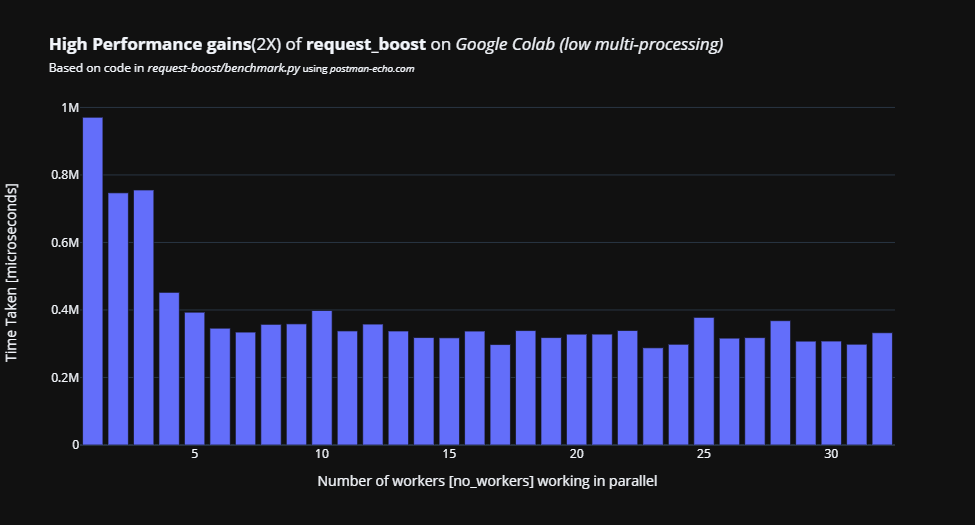
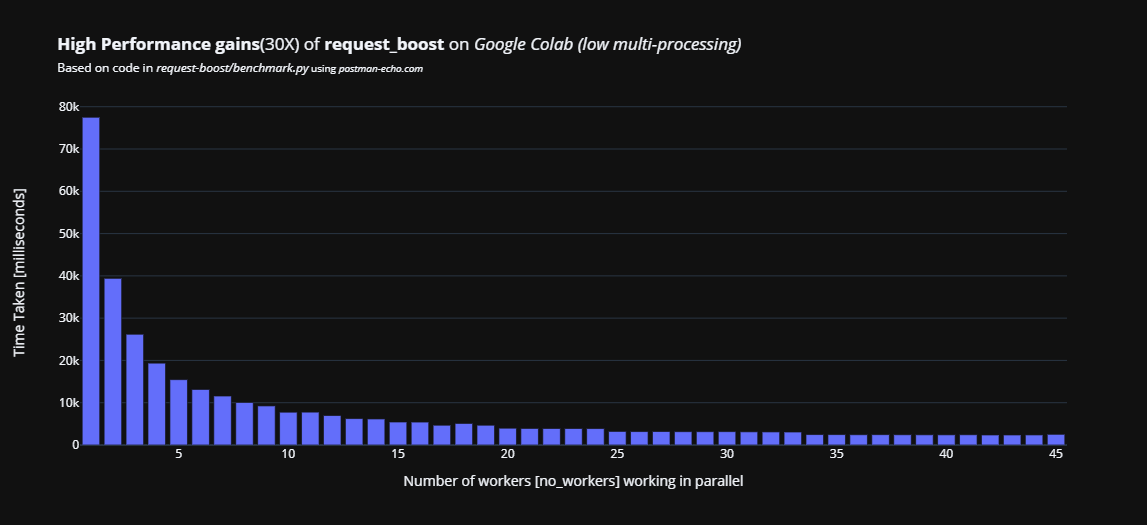
0.4

Changed region(s): [[0.0, 0.1829, 0.9538, 0.9448], [0.0308, 0.061, 0.7385, 0.1524]]

diff --git a/request_boost/__init__.py b/request_boost/__init__.py
@@ -10,9 +10,10 @@ import queue
 from urllib import request, parse
 from threading import Thread
 import json
+from datetime import datetime
 
 
-def boosted_requests(urls, no_workers=8, max_tries=3, timeout=10, headers=None, data=None, verbose=True):
+def boosted_requests(urls, no_workers=32, max_tries=5, timeout=10, headers=None, data=None, verbose=True):
     """
     Get data from APIs in parallel by creating workers that process in the background
     :param urls: list of URLS
@@ -24,9 +25,16 @@ def boosted_requests(urls, no_workers=8, max_tries=3, timeout=10, headers=None, 
     :param verbose: Show progress [True or False]
     :return: List of response for each API (order is maintained)
     """
+    start = datetime.now()
+
+    def _printer(inp, end=''):
+        print(f'\r::{(datetime.now() - start).total_seconds():.2f} seconds::',
+              str(inp),
+              end=end
+              )
 
     class GetRequestWorker(Thread):
-        def __init__(self, request_queue, max_tries=3, timeout=10, verbose=True):
+        def __init__(self, request_queue, max_tries=5, timeout=10, verbose=True):
             """
             Workers that can pull data in the background
             :param request_queue: queue of the dict containing the URLs
@@ -44,7 +52,7 @@ def boosted_requests(urls, no_workers=8, max_tries=3, timeout=10, headers=None, 
         def run(self):
             while True:
                 if self.verbose:
-                    print(f'\r>> {self.queue.qsize()} requests left', end='')
+                    _printer(f'>> {self.queue.qsize()} requests left', end='')
                 if self.queue.qsize() == 0:
                     break
                 else:
@@ -107,5 +115,5 @@ def boosted_requests(urls, no_workers=8, max_tries=3, timeout=10, headers=None, 
     for worker in workers:
         ret.update(worker.results)
     if verbose:
-        print(f'\r>> DONE')
+        _printer(f'>> DONE')
     return [ret[_] for _ in range(len(urls))]

diff --git a/request_boost/benchmark.py b/request_boost/benchmark.py
@@ -13,16 +13,16 @@ from tqdm.auto import tqdm
 import plotly.express as px
 
 # Sample data
-number_of_sample_urls = 200
+number_of_sample_urls = 100
 urls = [f'https://postman-echo.com/get?random_data={test_no}' for test_no in range(number_of_sample_urls)]
 headers = [{'sample_header': test_no} for test_no in range(number_of_sample_urls)]
 
 # Using boosted_requests
 wcd = {}
-for wc in tqdm(range(100, 0, -3)):
+for wc in tqdm(range(45, 0, -1)):
     start = dt.now()
-    results = boosted_requests(urls=urls, no_workers=wc, max_tries=10, timeout=5, headers=None)
-    wcd[wc] = (dt.now() - start).microseconds
+    results = boosted_requests(urls=urls, no_workers=wc, max_tries=5, timeout=5, headers=None)
+    wcd[wc] = int((dt.now() - start).total_seconds() * 1000)
 
 # Plotting using plotly
 lists = sorted(wcd.items())
@@ -30,8 +30,8 @@ x, y = zip(*lists)
 fig = px.bar(
     x=x,
     y=y,
-    title=f'<b>High Performance gains</b>(16X) of ' +
-          '<b>request_boost</b> on <i>Google Colab (low multi-processing)</i> <br>' +
+    title=f'<b>High Performance gains</b>(30X) of ' +
+          '<b>request_boost</b> even on <i>Google Colab (low multi-processing)</i> <br>' +
           '<span style="font-size: 12px;">Based on code in ' +
           '<i>request-boost/benchmark.py</i></span>' +
           '<span style="font-size: 10px;"> using <i>postman-echo.com</i> </span>',
@@ -41,5 +41,5 @@ fig.update_xaxes(
     title_text="Number of workers [no_workers] working in parallel")
 
 fig.update_yaxes(
-    title_text="Time Taken [microseconds]", title_standoff=25)
+    title_text="Time Taken [milliseconds]", title_standoff=25)
 fig.show()

diff --git a/setup.py b/setup.py
@@ -21,7 +21,7 @@ classifiers = [
 
 setup(
     name='request-boost',
-    version='0.3.1',
+    version='0.4',
     description='A better requests and urllib. A simple package for hitting multiple URLs and performing GET/POST requests in parallel.',
     long_description=open('README.md').read() + '\n\n' + open('CHANGELOG.md').read()+'\n\nRead more at https://github.com/singhsidhukuldeep/request-boost',
     long_description_content_type="text/markdown",

diff --git a/CHANGELOG.md b/CHANGELOG.md
@@ -13,3 +13,8 @@ CHANGE LOG
 0.3.1 (17/09/2021)
 ------------------------
 - Added Verbose
+
+0.4 (17/09/2021)
+------------------------
+- Added Verbose timing
+- Improved performance
